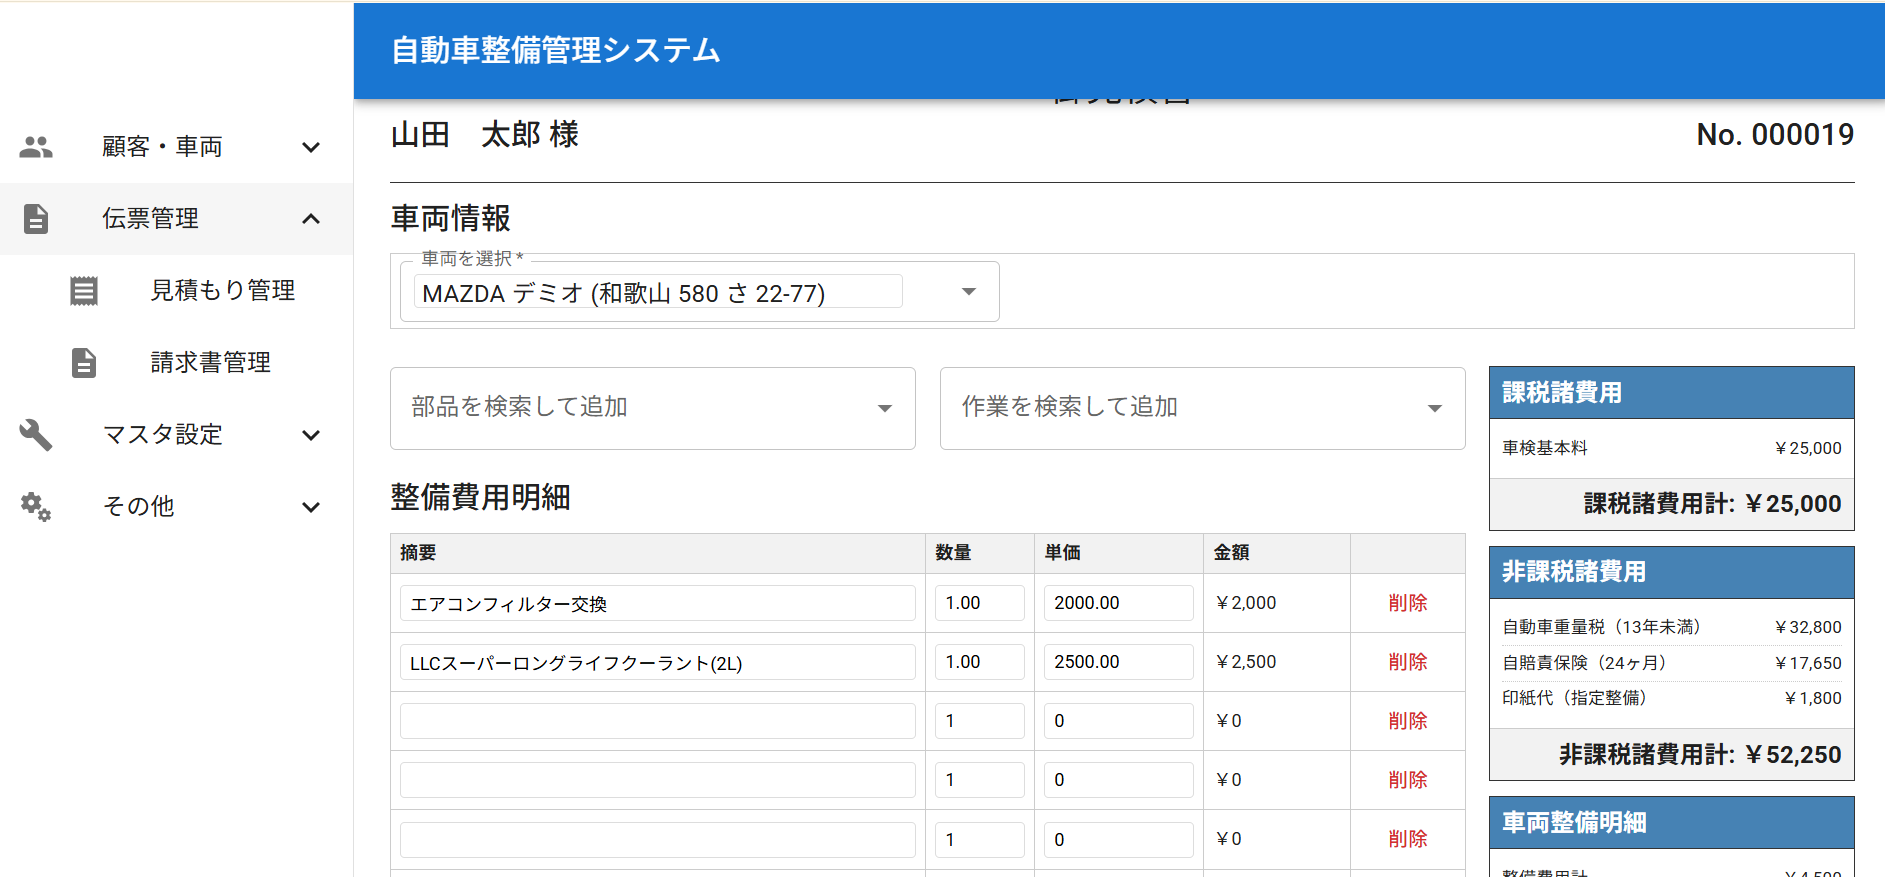
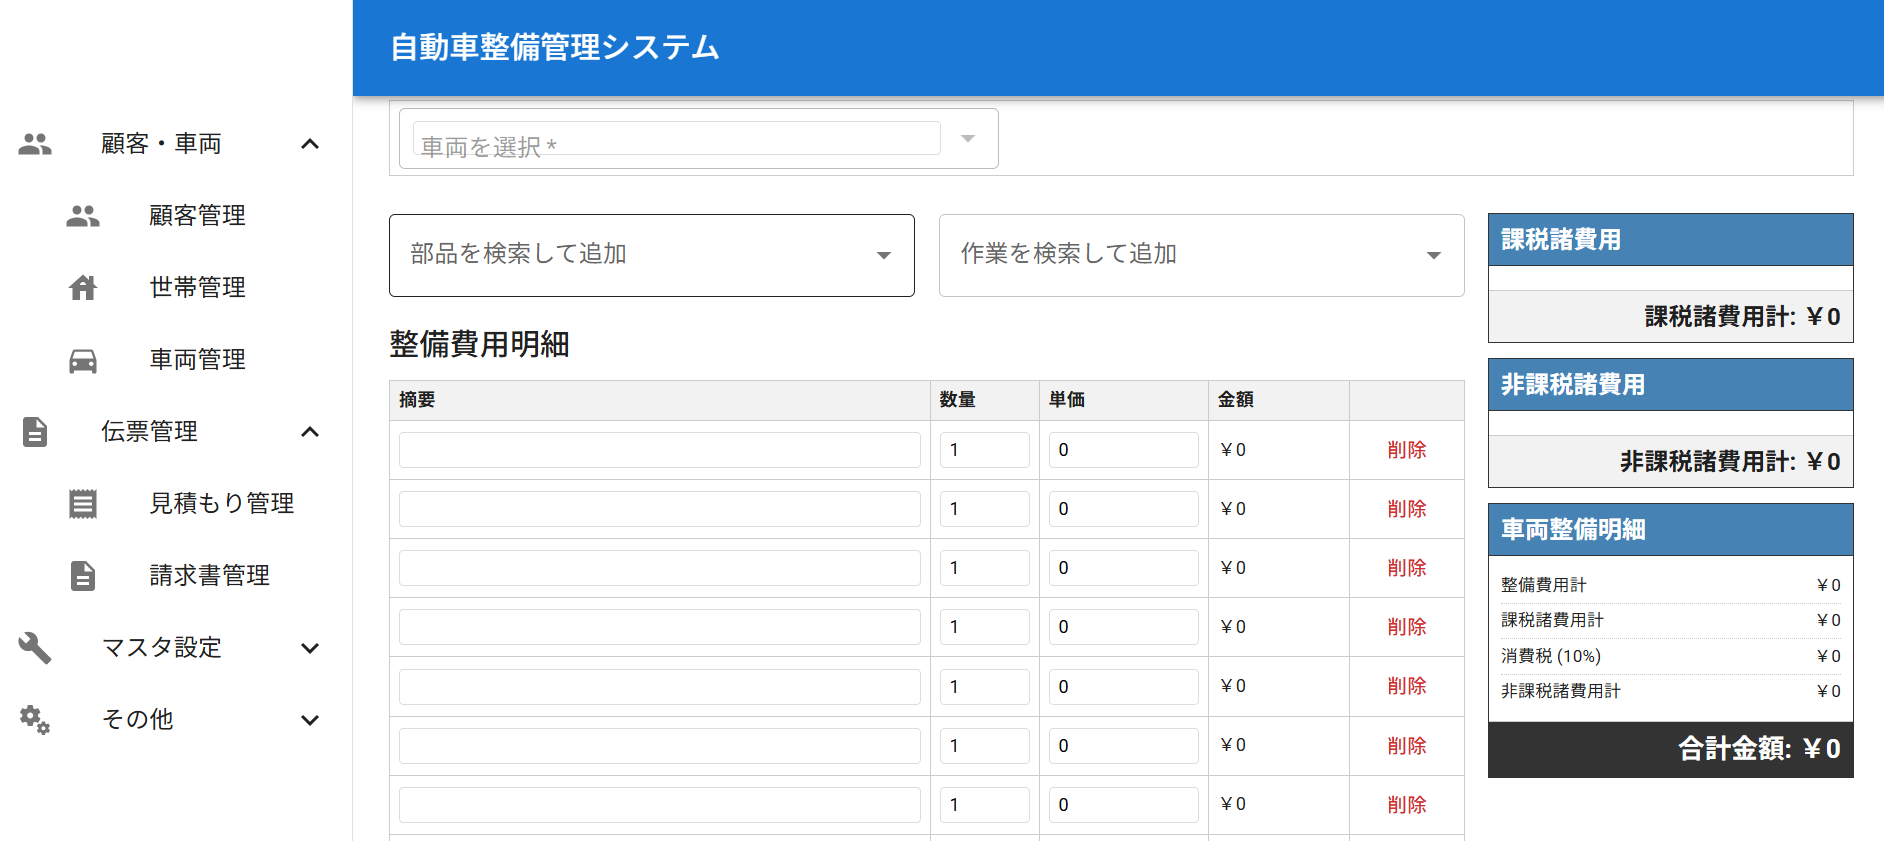
2

diff --git a/index.html b/index.html
@@ -165,8 +165,7 @@ Neue", Arial, sans-serif;
         <section id="projects" class="projects">
 
             <div class="project-card">
-                <img src="images/kinniku-token.png" alt="Shop Management System
-Screenshot">
+                <img src="images/shop-management.png" alt="Shop Management SystemScreenshot">
                 <div class="project-content">
                     <h3>顧客・車両・見積管理システム</h3>
                     <p>
